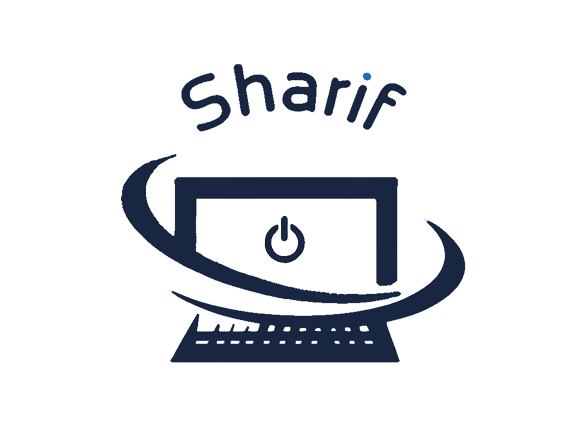
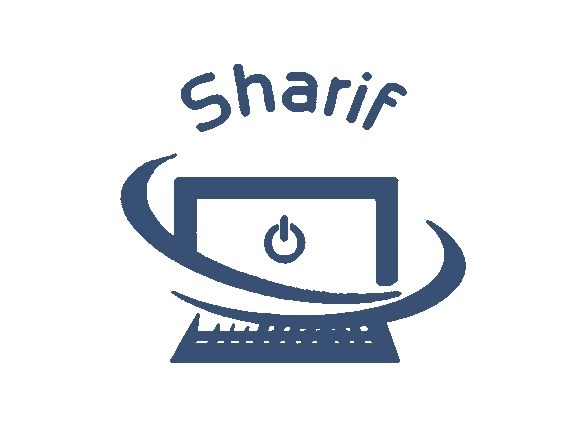
syncing changes

Changed region(s): [[0.1846, 0.3653, 0.8, 0.8525], [0.3077, 0.1522, 0.7077, 0.3044]]

diff --git a/src/styles/index.css b/src/styles/index.css
@@ -38,7 +38,7 @@ header {
   top: 0;
   z-index: 500;
   width: 100vw;
-  height: 12vh;
+  height: 13vh;
   min-height: 85px;
   box-shadow: 5px 5px 10px rgba(0, 0, 0, 0.5);
   background: rgba(255, 255, 255, 0.09);
@@ -117,9 +117,7 @@ nav.active {
   z-index: 200;
 }
 
-nav .logo {
-  color: rgba(4, 0, 54, 0.623);
-}
+
 
 .toggle {
   position: absolute;
@@ -239,10 +237,6 @@ section {
   position: absolute;
   border-radius: 5%;
   background-attachment: fixed;
-}
-
-.first-section h2 {
-
 }
 
 /* .landing-page-text h1 {
@@ -772,13 +766,16 @@ a {
   box-shadow: inset 0px 0px 10px rgba(0, 0, 0, 0.5);
 }
 
-.logo {
+.logo-wrapper {
   position: relative;
-  left: -2.5%;
-  width: 9%;
-  z-index: -1;
-  filter: brightness(1.7);
-  top: 0;
+  width: 9.5rem;
+  display: flex;
+}
+
+.logo {
+ width: 100%; 
+ margin-left: calc(1% + -1.5vw);
+ 
 }
 
 .spinner {
@@ -841,7 +838,7 @@ h3 {
 
 .blue-lion {
   position: relative;
-  width: 40vw;
+  width: 38vw;
 }
 
 .blue-lion img {

diff --git a/src/components/NavBars.js b/src/components/NavBars.js
@@ -1,7 +1,7 @@
 import React, { useState } from "react";
 import "../styles/index.css";
 import { useAuth0 } from "@auth0/auth0-react";
-import logo from "../assets/Untitled-1.png";
+import logo from "../assets/Untitled-3.png";
 import {
   NavItem,
   UncontrolledDropdown,
@@ -22,7 +22,10 @@ const NavBar = () => {
   return (
     <div>
       <header>
-        <img src={logo} alt="Sharif logo" className="logo" />
+        <div className="logo-wrapper">
+          <img src={logo} alt="Sharif logo" className="logo" />
+        </div>
+        
         <div>
           {!isAuthenticated && (
             <NavItem>
